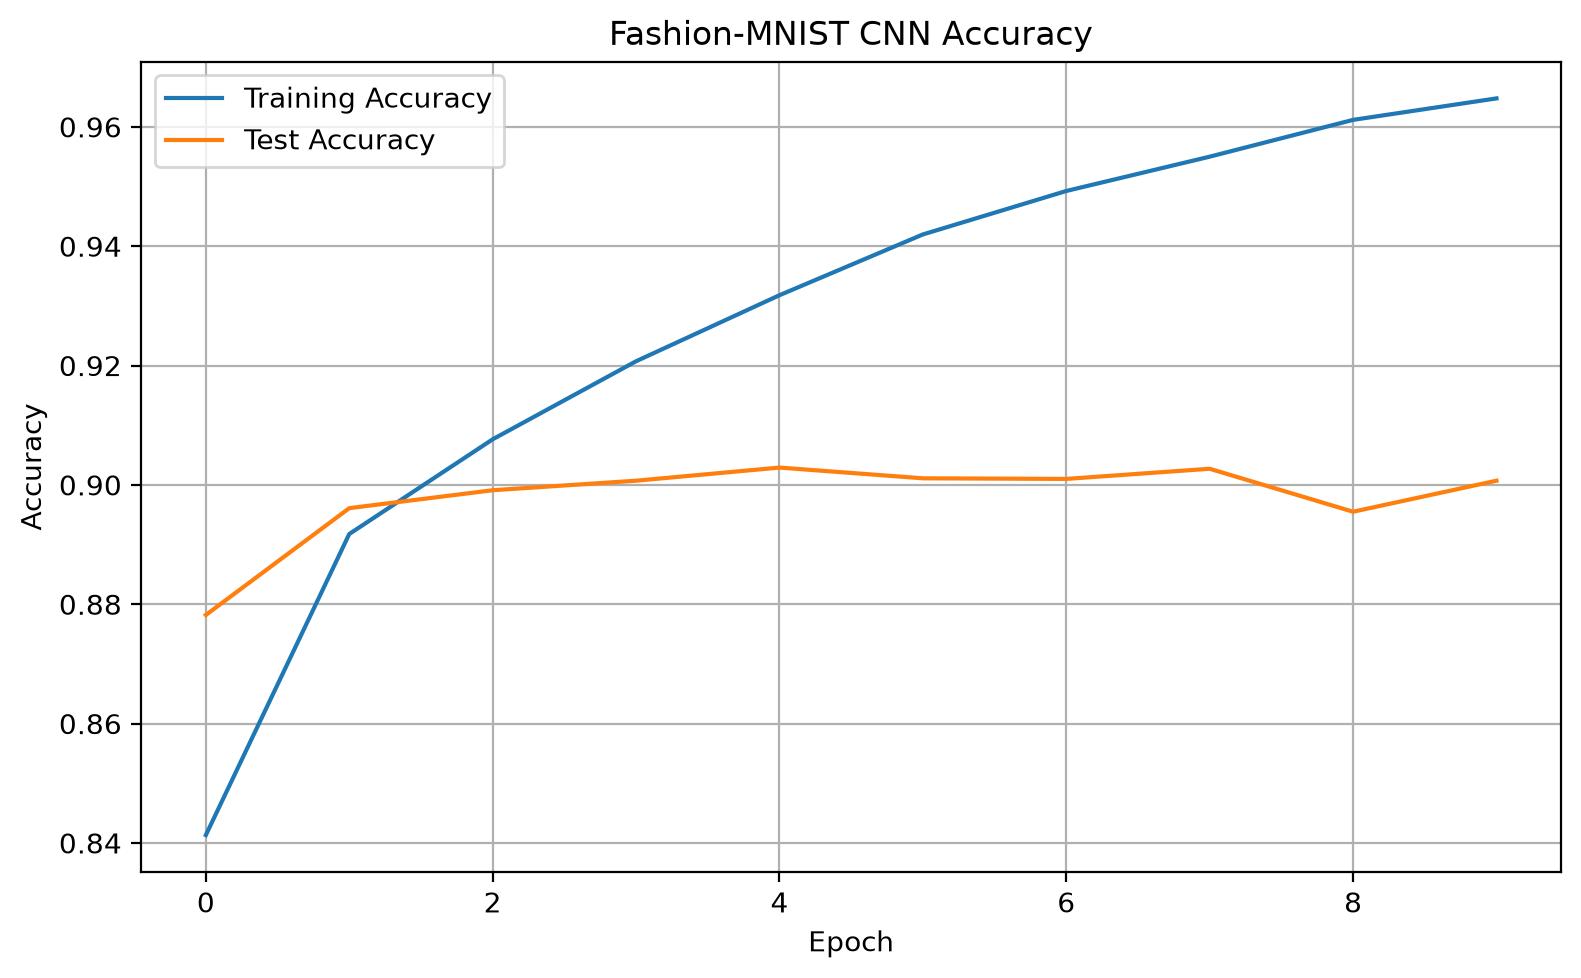
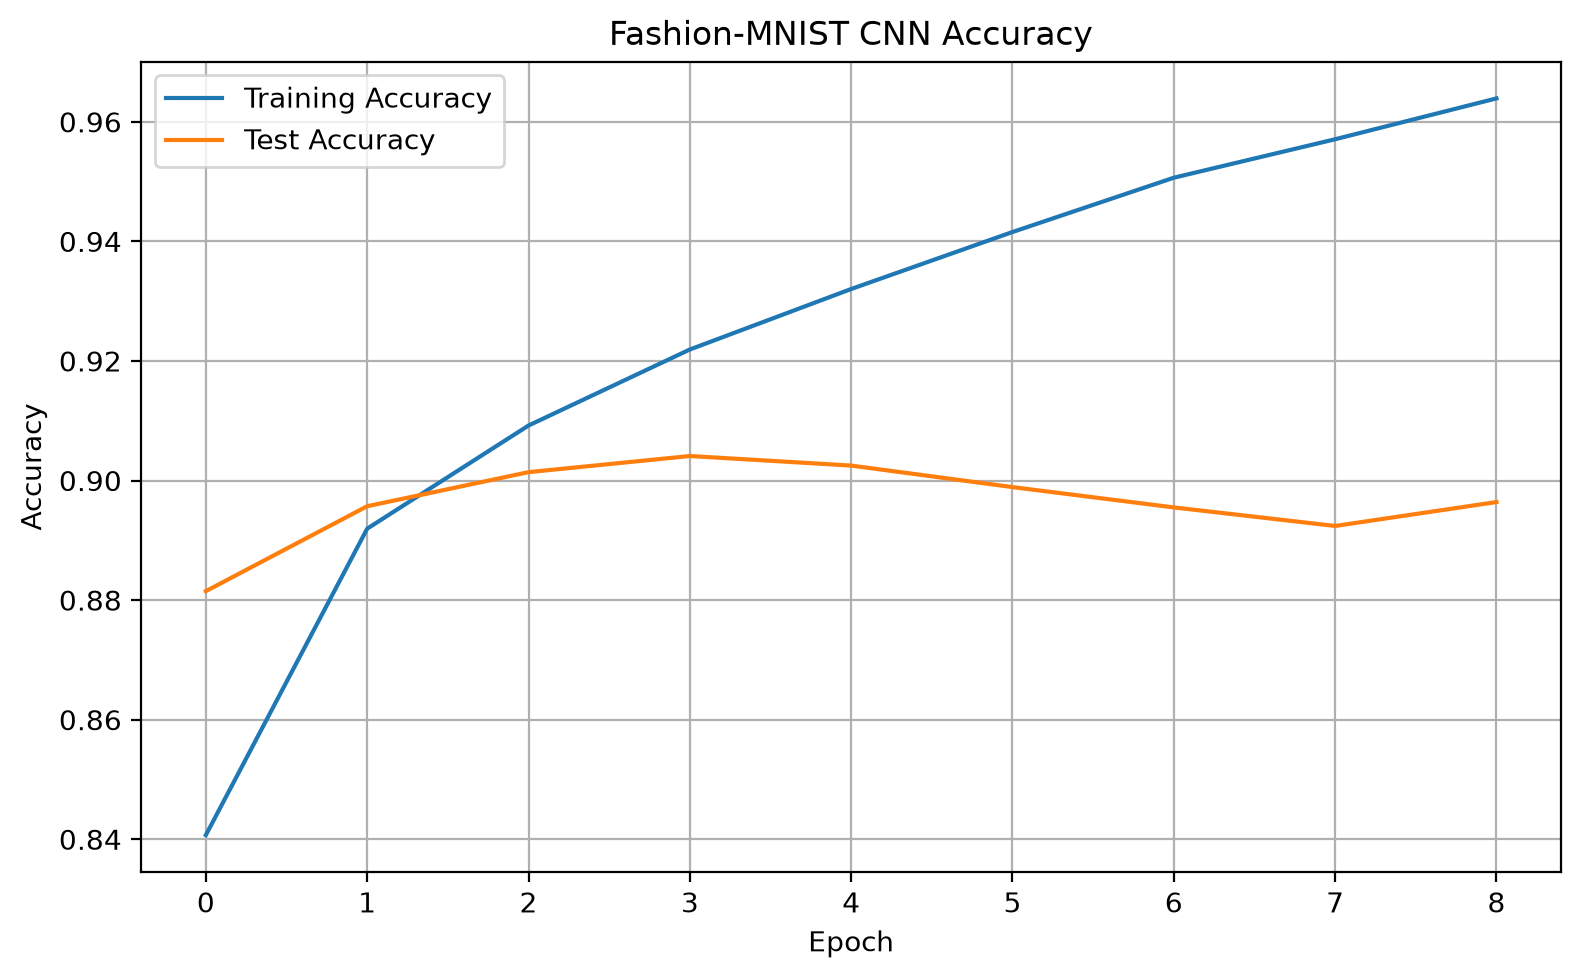
managed overfitting in cnn fashion_mnist code

diff --git a/03_Neural_Networks/CNN/fashion_mnist_cnn.py b/03_Neural_Networks/CNN/fashion_mnist_cnn.py
@@ -103,17 +103,25 @@ model.compile(
     metrics=["accuracy"]
 )
 
-# Train the CNN using the training images and their labels.
-# One epoch is one complete pass through the training dataset.
-# Ten epochs means the model processes the training dataset ten times.
-# Validation data measures performance on images not used for training.
+
+# Stop training when validation loss stops improving.
+
+early_stopping = tf.keras.callbacks.EarlyStopping(
+    monitor="val_loss",
+    patience=5,
+    restore_best_weights=True
+)
+
+# Train the CNN with early stopping.
 
 history = model.fit(
     training_images,
     training_labels,
-    epochs=10,
-    validation_data=(validation_images, validation_labels)
+    epochs=50,
+    validation_data=(validation_images, validation_labels),
+    callbacks=[early_stopping]
 )
+
 
 # Evaluate the trained model on the held-out images.
 # Loss measures prediction error, while accuracy measures correct predictions.
